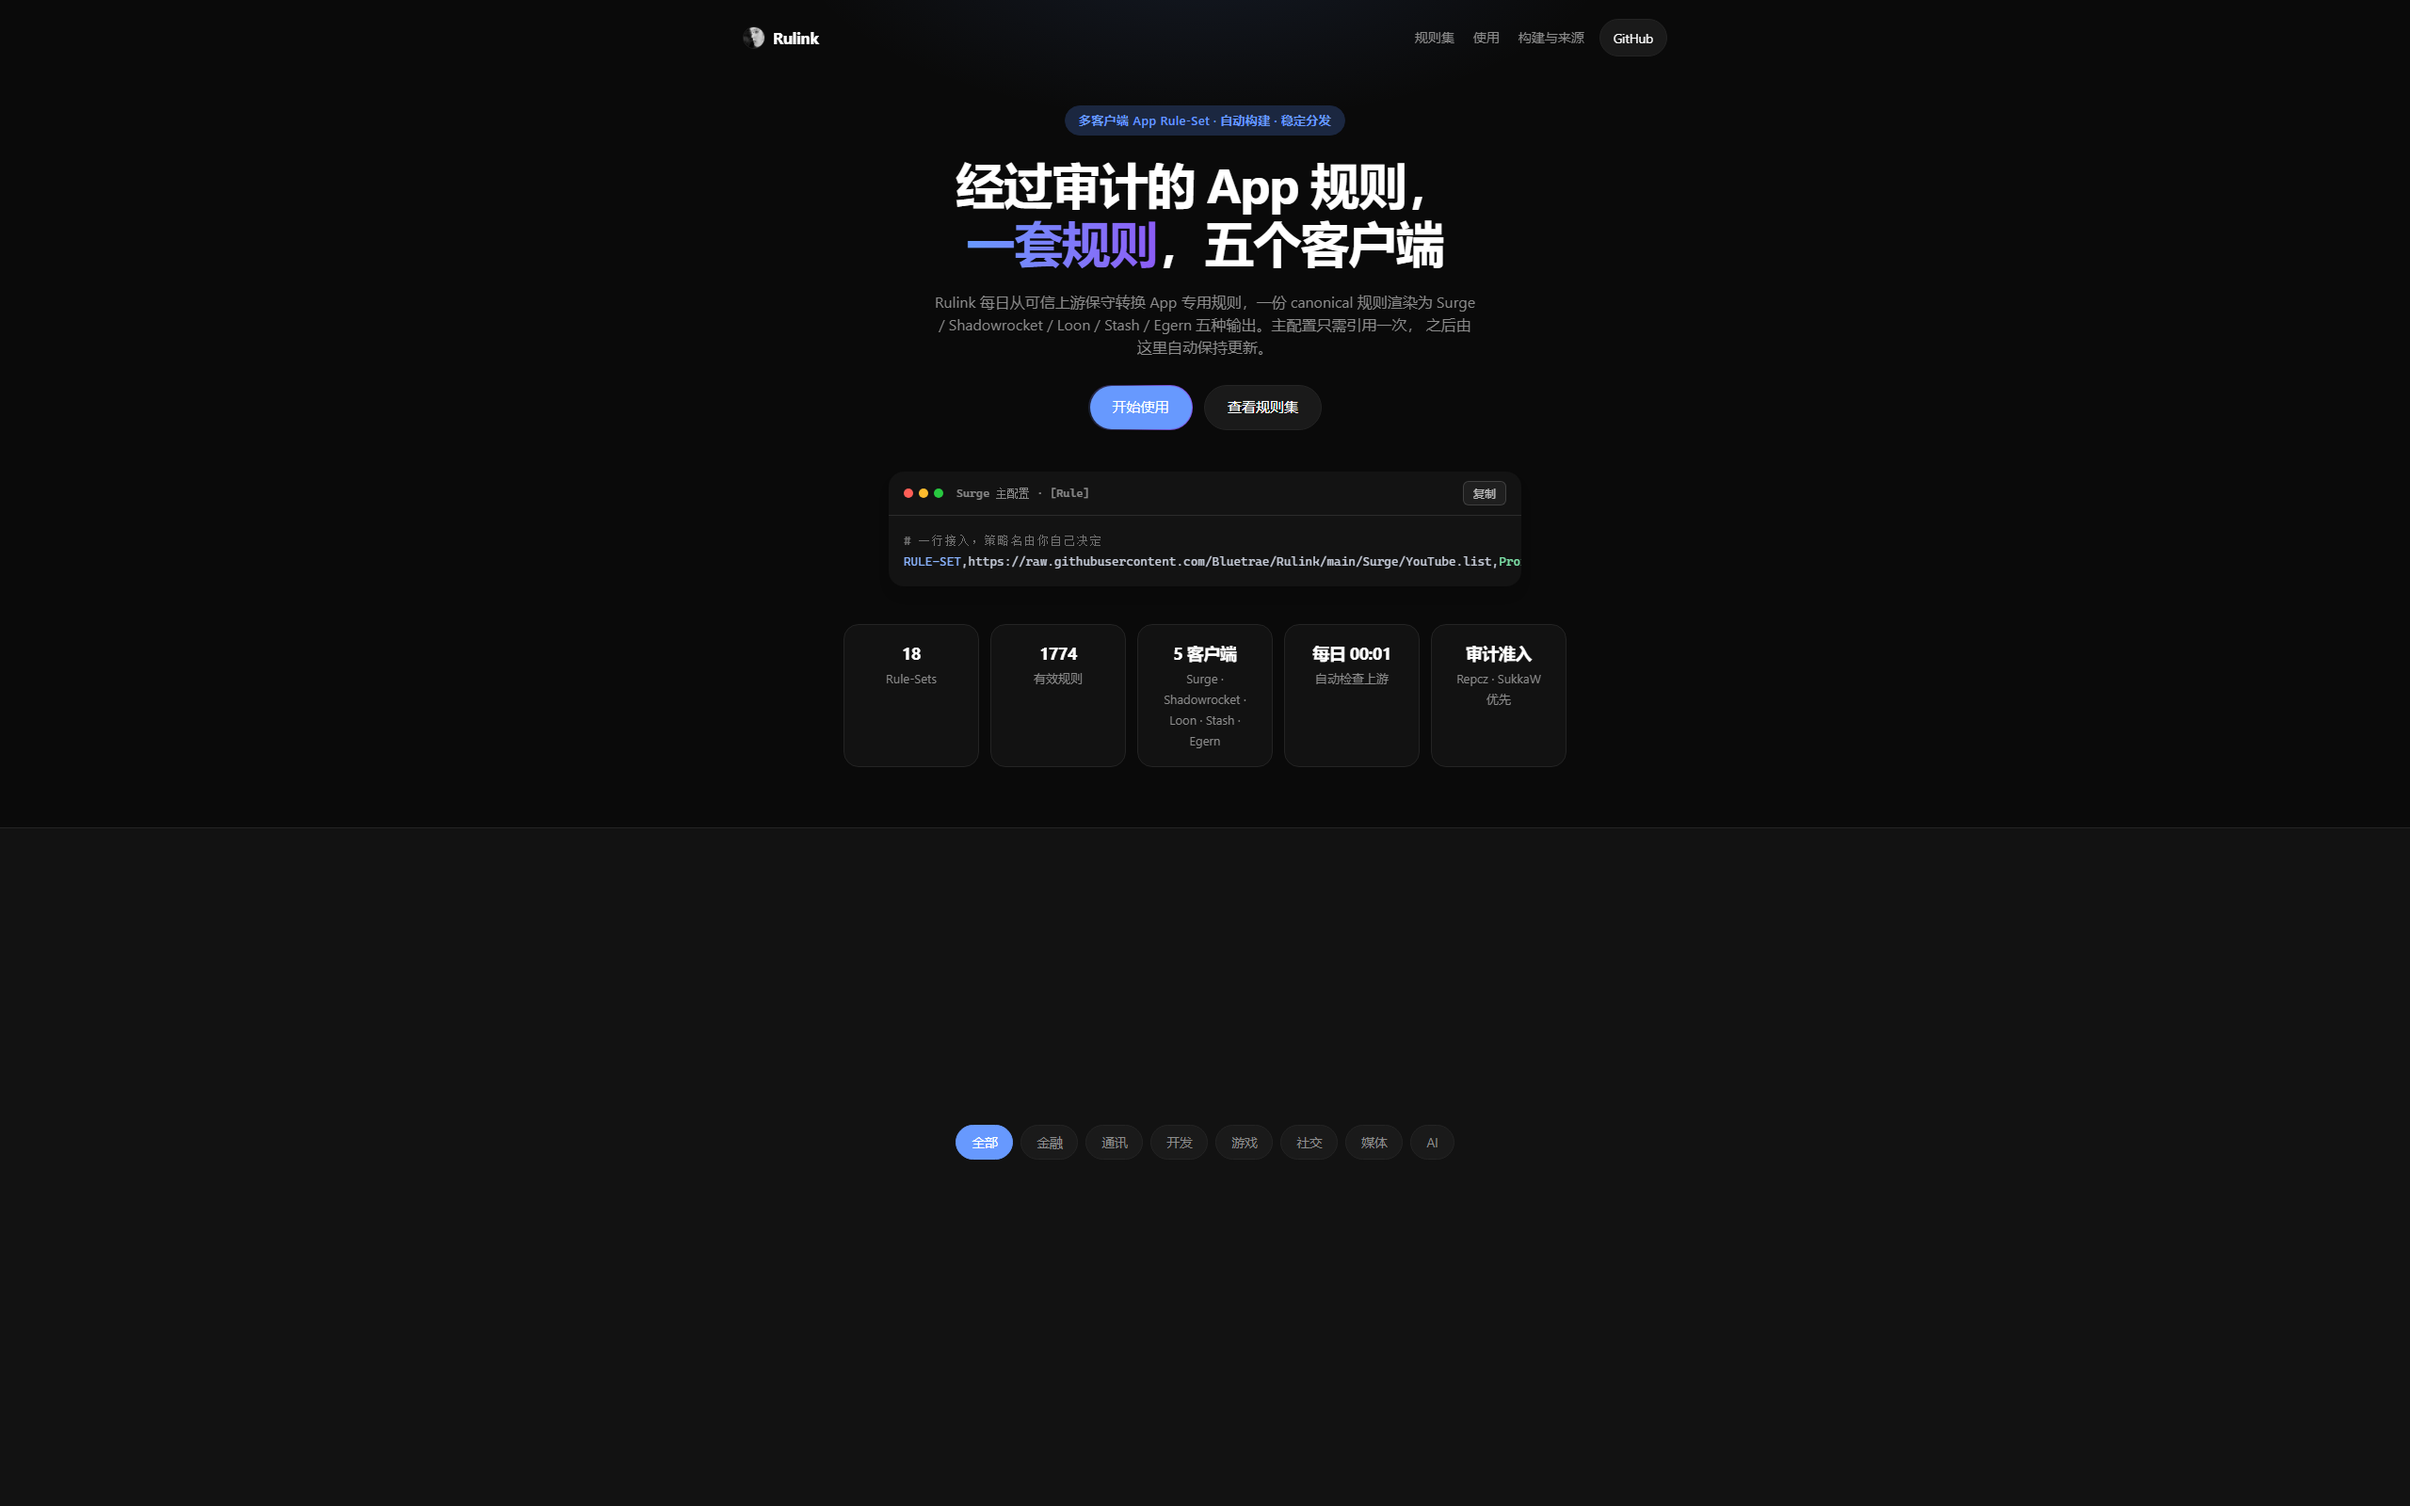
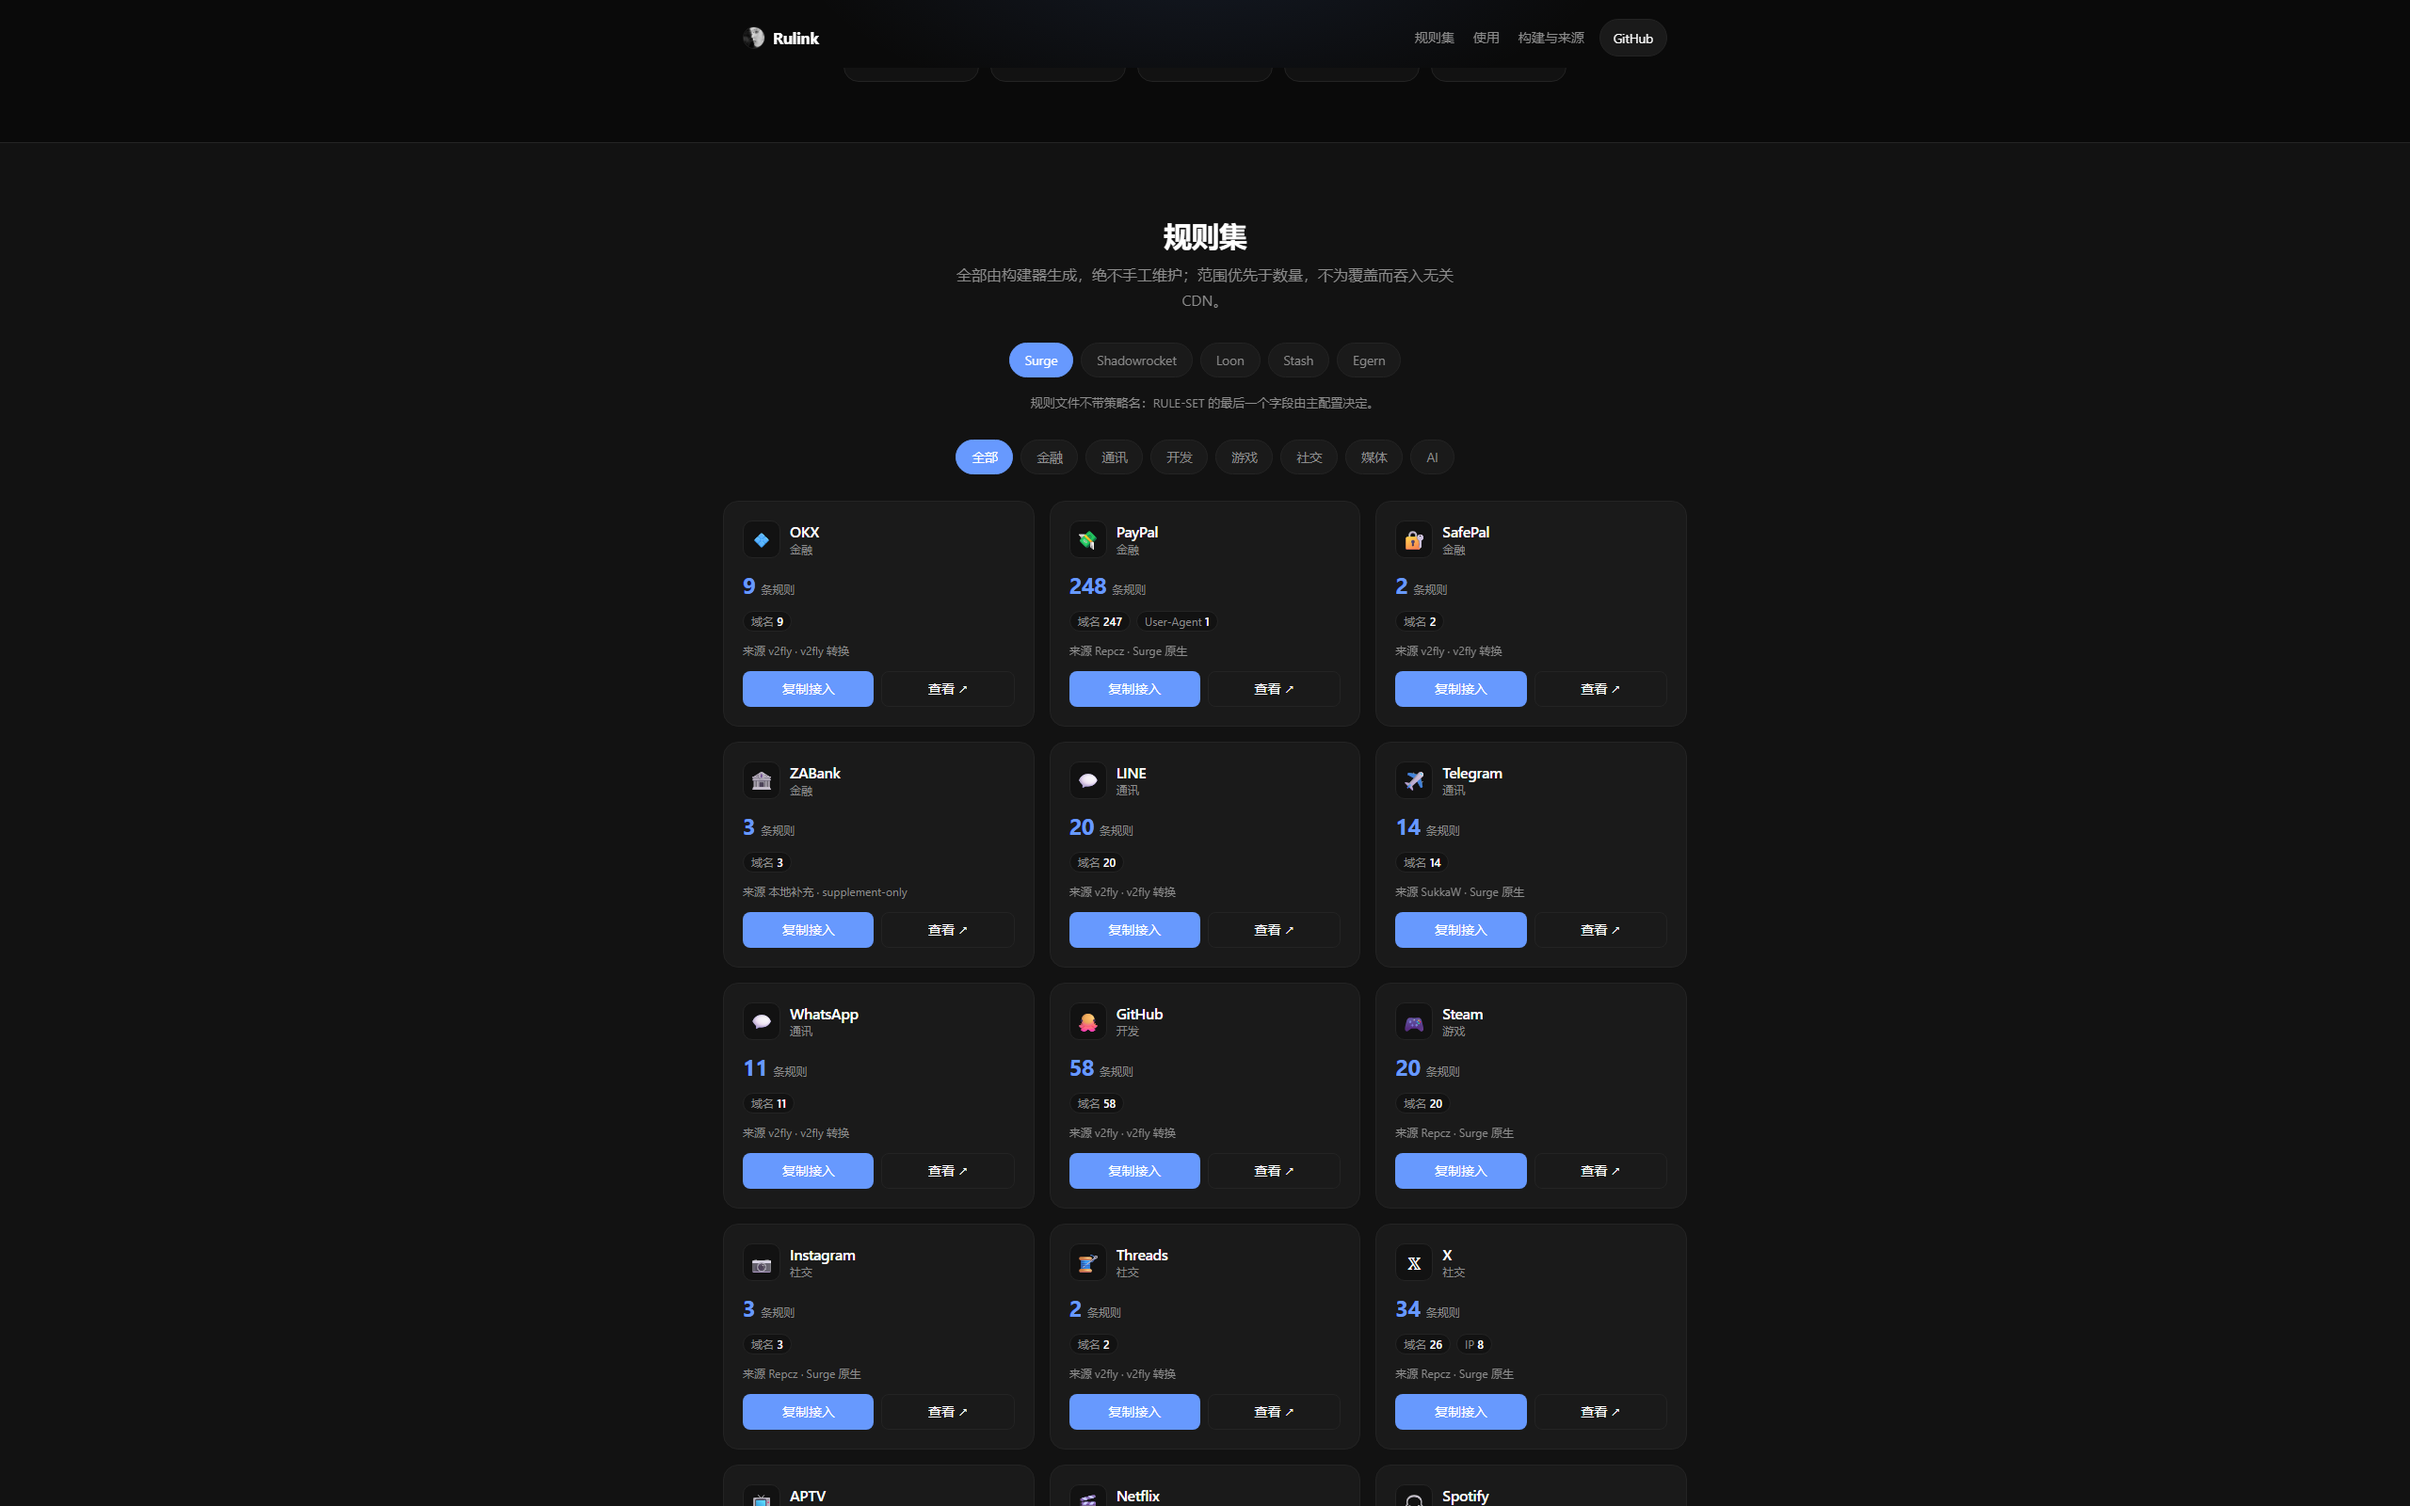
docs: README preview shows the multi-client rulesets section
Replace the hero-only preview with a 2560x1600 capture of the rulesets
section (client tabs, category pills, and app cards), matching the layout
the user picked from the live portal

diff --git a/HANDOFF.md b/HANDOFF.md
@@ -38,7 +38,7 @@ https://github.com/Bluetrae/Rulink
 - `sources/supplement/` 目前含 `ZABank.list`（3 条根域名，supplement-only）与 `APTV.list`（26 条自用直播源，supplement-only，已注释自用）；其他 App 无 supplement 文件，这是预期状态
 - 2026-08-15：完成用户 Surge 主配置与仓库输出的完整对照；脱敏结论见 `SOURCE_AUDITS.md`「用户 Surge 主配置对照」一节（要点：ZA Bank 9 条手工行、OKX 7 条手工行可删；Telegram 主配置保持现状；Steam 已新增纳入；APTV 已迁入为自用 supplement）
 - `portal/` 已随多客户端扩展完成重构（原为用户另一工作流窗口的开发内容，多客户端落地后经用户明确指示更新）：规则集与「接入你的客户端」两个区域都提供 Surge / Shadowrocket / Loon / Stash / Egern 客户端切换，每个 App 卡片按所选客户端给出对应引用片段（`RULE-SET` / `[Remote Rule]` / `rule-providers` + `RULE-SET` / `rule_set`），Egern 卡片对显式丢弃的 PROCESS-NAME 给出提示；`scripts/gen_portal_stats.py` 的 `stats.json` schema 扩展了每 App 的 `clients` 字段（egern 含 `dropped` 计数）。后续修改 portal 请保持与其他区域同等的显式路径暂存习惯
-- 门户已上线：https://bluetrae.github.io/Rulink/（仓库 About 已填 Website；GitHub Pages 采用 GitHub Actions 构建，`pages.yml` 随 `main` 推送自动部署）。主题为时间制：08:00–22:00 浅色、22:00–08:00 深色，无手动切换按钮；配色对齐 DeepSeek Harness 设计令牌；favicon 使用 DeepSeek 官方图标（已记录于 `THIRD_PARTY_NOTICES.md`「Repository assets」）。页面特性：五客户端切换（规则集卡片与接入区）、悬浮胶囊导航（滚动玻璃化）、首屏错峰入场、CTA 旋转描边、移动端汉堡菜单、流式标题；README 预览图位于 `docs/images/portal-preview.png`（多客户端深色版截图，随门户重构同步更新）
+- 门户已上线：https://bluetrae.github.io/Rulink/（仓库 About 已填 Website；GitHub Pages 采用 GitHub Actions 构建，`pages.yml` 随 `main` 推送自动部署）。主题为时间制：08:00–22:00 浅色、22:00–08:00 深色，无手动切换按钮；配色对齐 DeepSeek Harness 设计令牌；favicon 使用 DeepSeek 官方图标（已记录于 `THIRD_PARTY_NOTICES.md`「Repository assets」）。页面特性：五客户端切换（规则集卡片与接入区）、悬浮胶囊导航（滚动玻璃化）、首屏错峰入场、CTA 旋转描边、移动端汉堡菜单、流式标题；README 预览图位于 `docs/images/portal-preview.png`（多客户端深色版规则集区块视图，随门户重构同步更新）
 
 ## 项目目标
 
